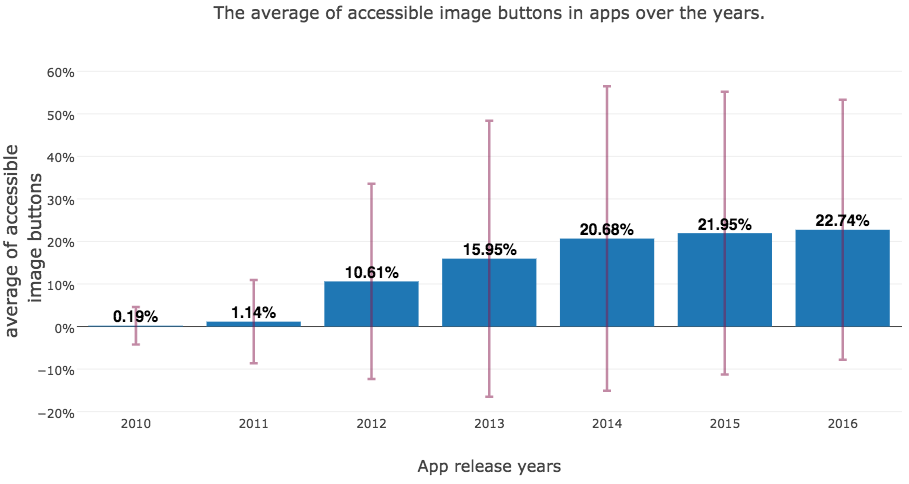
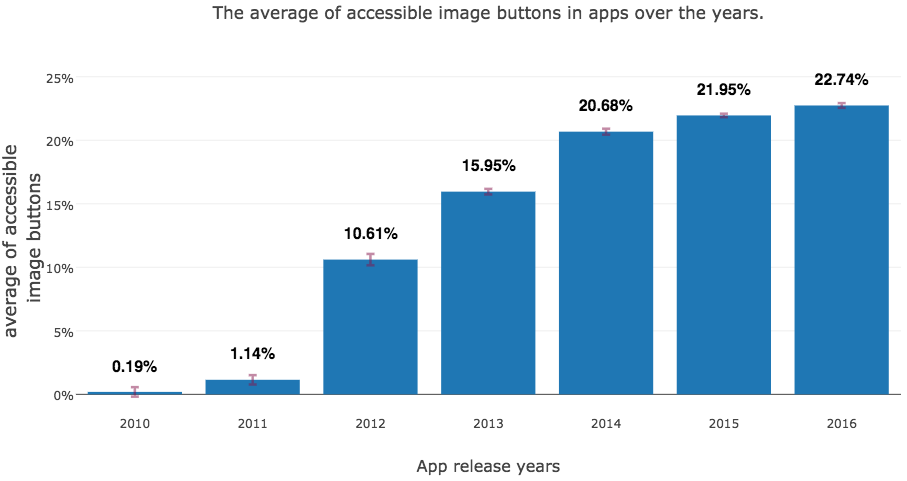
start permission findings

diff --git a/findings.tex b/findings.tex
@@ -174,25 +174,36 @@ fontsize=\footnotesize
 
 \noindent The first query is for finding apps that have an image button, while the last two queries are for finding apps that added a text label to an image button statically in layout files or dynamically in source code.
 We can analyze the results of these search queries and compute the ratio of labeled image buttons in each app.
-Figure~\ref{fig:img_btn_coverage_by_years} shows the average of accessible image button elements with text labels in all apps released from 2010 to 2016.
+We compute the percentage of accessible image buttons in each app as follows:
+$ coverage = \frac{image\_buttons\_with\_labels}{total\_image\_buttons}  $.
+Then, we compute the weighted mean for all apps in each year, the standard deviation as a measure of variability, and the standard error of the mean as follows:
+\[
+\bar{x} = \frac{\sum_{i=1}^N w_i x_i} {\sum_{i=1}^N w_i}
+\qquad , \qquad
+SD_{\bar{x}} = \sqrt{\frac{\sum_{i=1}^n w_i (x_i - \bar{x}^*)^2} {\frac{N-1}{N} \sum_{i=1}^n w_i}}
+\qquad , and  \qquad
+SE_{\bar{x}} = \frac{SD_{\bar{x}}}{\sqrt{N}}
+\]
+where $w_i$ is the number of image buttons, $x_i$ is the coverage, and N is the total number of observations (apps with image buttons).
+Figure~\ref{fig:img_btn_coverage_by_years} shows the weighted mean of accessible image button elements with text labels in all apps released from 2010 to 2016.
 We observed, on average, around 5\% increase of accessible image buttons from 2012 to 2014 but that improvement growth rate reached a plateau at a lower level in 2015 and 2016.
 
 \begin{figure}[H]
 	\includegraphics[scale=0.52]{./figures/findings/accessibility_accessible_image_btns_over_years.png}
-	\caption{The percentage of accessible image buttons in apps over the release years. The error bars represent the standard deviations, which show the variation among average values.}
+	\caption{The average of accessible image buttons in apps over the release years. The error bars represent the standard error of the mean.}
 	\label{fig:img_btn_coverage_by_years}
 \end{figure}
-\begin{figure}[H]
-	\includegraphics[scale=0.55]{figures/findings/accessibility_inaccessible_image_btns_by_year_and_download.png}
+\begin{figure}[h]
+	\includegraphics[scale=0.50]{figures/findings/accessibility_inaccessible_image_btns_by_year_and_download.png}
 	\caption{The percentage of apps that have no accessible ImageButton elements grouped by download count and release year.}
 	\label{fig:img_btn_no_coverage_by_years}
 \end{figure}
 We can also sample the apps with no accessible image buttons (i.e. an app that has no label in all of its image buttons) and group them by download count.
 Sieveable enables us to count for cases where text labels are added dynamically in the source code.
-Thus, the results of the previous queries are more accurate and can be used to quantify apps that do not label image buttons neither statically nor dynamically.
+Thus, the results of the previous queries are more accurate and can be used to quantify apps that do not label image buttons at all.
 Figure~\ref{fig:img_btn_no_coverage_by_years} shows the percentage of apps in three download count groups (top, middle, and bottom) that had no text labels in all the image buttons they used.
-This result shows that this accessibility bug is common across all apps of different download times. 
-It was even more common in the top downloaded apps in from 2011 to 2014.
+This result shows that this accessibility bug is common across all apps of different download times.
+It was even more common in the top downloaded apps in the years from 2011 to 2014.
 However, it dropped in the following two years to become relatively common in all three download count groups.
 
 The results of this analysis show a mixed view of accessibility improvements in Android apps over the years.
@@ -200,4 +211,20 @@ While we have seen a small yet noticeable improvement in the years before 2015 b
 These findings suggest that accessibility is still a problem for all apps including the most downloaded apps and bring to light the prevalence of this accessibility problem across all apps regardless of their popularity levels.
 The results presented here highlight the potential of using Sieveable in future work to estimate the accessibility of mobile apps over time and identify areas where accessibility violations are more severe.
 
+
 \section{Security Mining Analysis}
+Android uses a permission system to protect privacy- and security-sensitive resources.
+Android has recently changed its permission's model from install-time (pre 6.0) to a runtime permission system (6.0 and above).
+In the install-time model, users are prompted with a list of permissions an app requires when they try to install the app.
+In the runtime model, instead of showing permissions at install-time, Android gives users the choice of granting or denying a permission while running the app.
+Many research efforts have studied several privacy and security problems in the permission's model of Android (discussed in detail in chapter \ref{ch:related_work_chapter}).
+However, previous studies have been limited in their understanding of permission changes over time.
+It is valuable to ask how permission usage changes in Android apps.
+Do apps tend to request fewer or more permissions over time?
+Are developers becoming security-conscious or non-security-conscious over the years?
+Did they ask for more permissions to use in new features or included libraries?
+In this section, through an analysis of permission usage changes, I explore patterns in permission usage changes over time.
+
+I begin the analysis by looking at the apps that made changes to the requested permissions between two subsequent versions.
+I found that, on average, for the apps that added permissions, they added 2.28 permissions (standard deviation is 1.98). 
+For the apps that dropped permissions, they dropped 2.42 permissions on average (standard deviation is 2).
